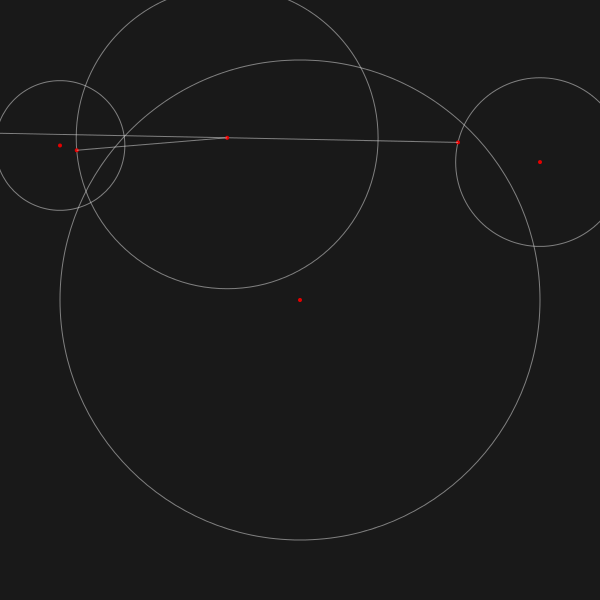
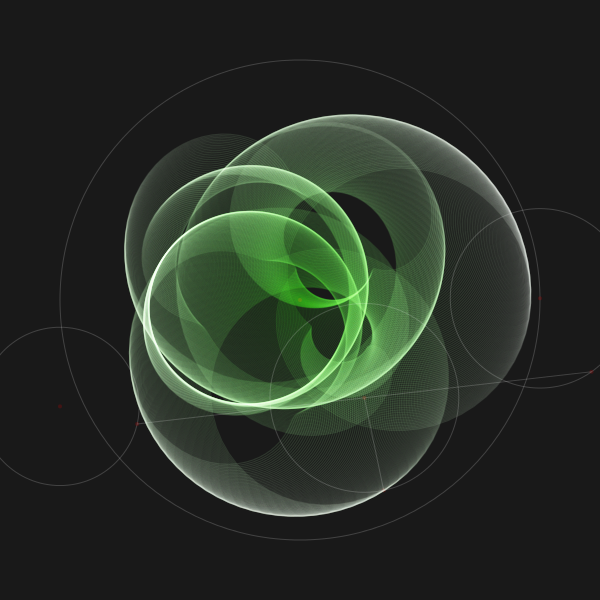
Drawing machine almost done

diff --git a/drawing-machine.py b/drawing-machine.py
@@ -3,6 +3,7 @@ import os
 import time
 import math
 import random
+import colorsys
 
 if os.name == 'nt': # Is windows
     import cairo
@@ -20,8 +21,11 @@ class Axis:
         self.r = r
         self.angle_current = random.random() * 2 * math.pi
         self.angle_inc = angle_inc
-    def rotate( self ):
-        self.angle_current += self.angle_inc
+    def rotate( self, angle = 0 ):
+        # if angle == None:
+        #     angle = self.angle_inc
+        self.angle_current += angle
+        return self
     def getPoint( self ):
         x = self.cx + self.r * math.cos( self.angle_current )
         y = self.cy + self.r * math.sin( self.angle_current )
@@ -32,7 +36,6 @@ h = 600
 cx = w / 2
 cy = h / 2
 t = 0
-iteraciones = 1000
 
 ims = cairo.ImageSurface(cairo.FORMAT_ARGB32, w, h)
 ctx = cairo.Context(ims)
@@ -50,9 +53,9 @@ paper_h = h * 0.8
 paper_r = w * 0.8 / 2 # radius
 paper_inc_angle = random.random() * 5 - 2.5 # -2.5 / 2.5
 
-ctx.set_source_rgba(0.9, 0.9, 0.9, 0.5)
+ctx.set_source_rgba(0.9, 0.9, 0.9, 0.2)
 draw.circle( ctx, cx, cy, paper_r)
-ctx.set_source_rgba(0.9, 0, 0, 1.0)
+ctx.set_source_rgba(0.9, 0, 0, 0.2)
 draw.plot( ctx, cx, cy, 2)
 
 # Axis A
@@ -60,59 +63,117 @@ axis_a = Axis(
     cx - paper_r, # - ( ( random.random() *  axis_a_r * 2 ) - axis_a_r )
     (h - paper_h) / 2 + random.random() * paper_h,
     random.random() * ( paper_r / 2 ) + paper_r / 10,
-    random.random() * 5 - 2.5
+    0
 )
 
-ctx.set_source_rgba(0.9, 0.9, 0.9, 0.5)
+ctx.set_source_rgba(0.9, 0.9, 0.9, 0.2)
 draw.circle( ctx, axis_a.cx, axis_a.cy, axis_a.r)
-ctx.set_source_rgba(0.9, 0, 0, 1.0)
+ctx.set_source_rgba(0.9, 0, 0, 0.2)
 draw.plot( ctx, axis_a.cx, axis_a.cy, 2)
 
 axis_b = Axis(
     cx + paper_r, # - ( ( random.random() *  axis_a_r * 2 ) - axis_a_r )
     (h - paper_h) / 2 + random.random() * paper_h,
     random.random() * ( paper_r / 2 ) + paper_r / 10,
-    random.random() * 5 - 2.5
-)
-
-ctx.set_source_rgba(0.9, 0.9, 0.9, 0.5)
-draw.circle( ctx, axis_b.cx, axis_b.cy, axis_b.r)
-ctx.set_source_rgba(0.9, 0, 0, 1.0)
-draw.plot( ctx, axis_b.cx, axis_b.cy, 2)
-
-# H line
-pa = axis_a.getPoint()
-ctx.set_source_rgba(0.9, 0, 0, 1.0)
-draw.plot( ctx, pa[0], pa[1], 2)
-pb = axis_b.getPoint()
-ctx.set_source_rgba(0.9, 0, 0, 1.0)
-draw.plot( ctx, pb[0], pb[1], 2)
-ctx.set_source_rgba(0.9, 0.9, 0.9, 0.5)
-draw.line( ctx, pa[0], pa[1], pb[0], pb[1] )
-axis_distance = utilz.distance( pa[0], pa[1], pb[0], pb[1] )
-
-# center axis
-h_line_cp = utilz.lineLerp( pa[0], pa[1], pb[0], pb[1], 0.5 )
-ctx.set_source_rgba(0.9, 0, 0, 1.0)
-draw.plot( ctx, h_line_cp['x'], h_line_cp['y'], 2)
-
-axis_final = Axis(
-    h_line_cp['x'],
-    h_line_cp['y'],
-    random.random() * axis_distance / 2,
     0
 )
 
-# final point "pen"
-ctx.set_source_rgba(0.9, 0.9, 0.9, 0.5)
+ctx.set_source_rgba(0.9, 0.9, 0.9, 0.2)
+draw.circle( ctx, axis_b.cx, axis_b.cy, axis_b.r)
+ctx.set_source_rgba(0.9, 0, 0, 0.2)
+draw.plot( ctx, axis_b.cx, axis_b.cy, 2)
+
+# Rod (eje que une las ruedas de una locomotora)
+pa = axis_a.getPoint()
+ctx.set_source_rgba(0.9, 0, 0, 0.2)
+draw.plot( ctx, pa[0], pa[1], 2)
+pb = axis_b.getPoint()
+ctx.set_source_rgba(0.9, 0, 0, 0.2)
+draw.plot( ctx, pb[0], pb[1], 2)
+ctx.set_source_rgba(0.9, 0.9, 0.9, 0.2)
+draw.line( ctx, pa[0], pa[1], pb[0], pb[1] )
+rod_length = utilz.distance( pa[0], pa[1], pb[0], pb[1] )
+
+# center axis
+rod_center = utilz.lineLerp( pa[0], pa[1], pb[0], pb[1], 0.5 )
+ctx.set_source_rgba(0.9, 0, 0, 0.2)
+draw.plot( ctx, rod_center['x'], rod_center['y'], 2)
+
+axis_final = Axis(
+    rod_center['x'],
+    rod_center['y'],
+    max(random.random() * paper_w / 2, 60), # (random.random() * rod_length / 4) + rod_length / 6,
+    0
+)
+# axis_final.cx = rod_center['x']
+# axis_final.cy = rod_center['y']
+
+# final point "pencil"
+ctx.set_source_rgba(0.9, 0.9, 0.9, 0.2)
 draw.circle( ctx, axis_final.cx, axis_final.cy, axis_final.r)
-pen = axis_final.getPoint()
-ctx.set_source_rgba(0.9, 0, 0, 1.0)
-draw.plot( ctx, pen[0], pen[1], 2)
-ctx.set_source_rgba(0.9, 0.9, 0.9, 0.5)
-draw.line( ctx,axis_final.cx, axis_final.cy, pen[0], pen[1] )
+pencil = axis_final.getPoint()
+ctx.set_source_rgba(0.9, 0, 0, 0.2)
+draw.plot( ctx, pencil[0], pencil[1], 2)
+ctx.set_source_rgba(0.9, 0.9, 0.9, 0.2)
+draw.line( ctx, axis_final.cx, axis_final.cy, pencil[0], pencil[1] )
+last_x = pencil[0]
+last_y = pencil[1]
 
-# for i in range(iteraciones):
+ctx.set_source_rgba(0.9, 0.9, 0.9, 0.25)
+ctx.set_line_width(1.2)
 
+iteraciones = random.randint(2000, 40000)
+ROT = ( 90 * 2 * math.pi ) / iteraciones
+print(iteraciones)
+
+axis_a_rot_factor = random.randint(1, 12) + 0.005
+axis_b_rot_factor = random.randint(1, 12) + 0.005
+axis_p_rot_factor = random.randint(1, 12) + 0.005
+while axis_a_rot_factor == axis_p_rot_factor or axis_b_rot_factor == axis_p_rot_factor:
+     axis_p_rot_factor = random.randint(2, 12) + 0.005
+
+#print('ROT:' + str(ROT) )
+print('a: ' + str(axis_a_rot_factor))
+print('b: ' + str(axis_b_rot_factor))
+print('p: ' + str(axis_p_rot_factor))
+
+hsl = [ 0.069, 1.0, 0.5 ]
+
+ctx.set_operator(cairo.OPERATOR_SCREEN)
+h = random.random()
+
+for i in range(iteraciones):
+
+    rotation = i * ROT
+
+    pa = axis_a.rotate( ROT * axis_a_rot_factor ).getPoint()
+    pb = axis_b.rotate( ROT * axis_b_rot_factor ).getPoint()
+    rod_center = utilz.lineLerp( pa[0], pa[1], pb[0], pb[1], 0.5 )
+    axis_final.cx = rod_center['x']
+    axis_final.cy = rod_center['y']
+    pencil = axis_final.rotate( ROT * axis_p_rot_factor  ).getPoint()
+
+    pencil_r = utilz.rotatePoint( cx, cy,  pencil[0], pencil[1], rotation )
+
+    # ctx.save()
+    # ctx.translate( w/2, h/2)
+    # ctx.rotate( i * 0.0174533)
+
+    s = 1 - (utilz.distance( cx, cy,  pencil[0], pencil[1] ) / (paper_w / 2))
+    rgb = colorsys.hsv_to_rgb( h, s, 0.5)
+    ctx.set_source_rgba( *rgb, 0.25)
+
+    ctx.move_to( last_x, last_y )
+    ctx.line_to( pencil_r[0], pencil_r[1] )
+    ctx.stroke()
+    last_x = pencil_r[0]
+    last_y = pencil_r[1]
+    # draw.plot( ctx, pencil[0], pencil[1], 1)
+
+    # ctx.restore()
+
+# pencil = axis_final.getPoint()
+# ctx.set_source_rgba(0, 0.9, 0, 1.0)
+# draw.plot( ctx, pencil[0], pencil[1], 2)
 
 ims.write_to_png("test.png")
